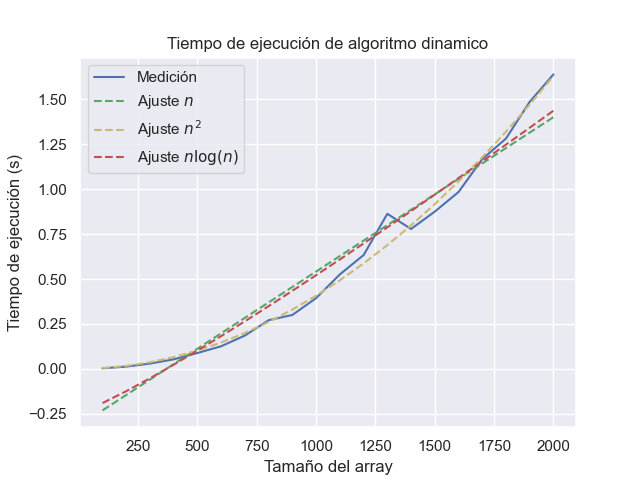
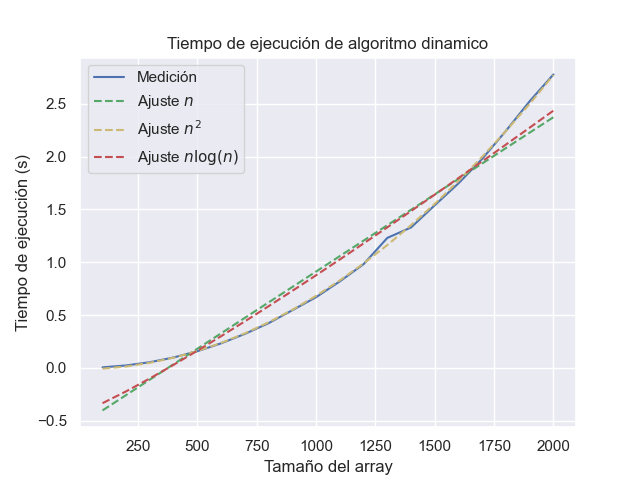
codigo segunda parte

diff --git a/src/main/juego_monedas_dinamico.py b/src/main/juego_monedas_dinamico.py
@@ -1,81 +1,95 @@
 from collections import deque
+import time
 from data_loader import cargar_set_datos
 import os
 
 
-def precompute_dp(arr):
-    n = len(arr)
-    dp = [[0] * n for _ in range(n)]
-    
-    # Base case: when there's only one element, the player will take it
-    for i in range(n):
-        dp[i][i] = arr[i]
-    
-    # Fill the dp table for all subarrays of size 2 or more
-    for length in range(2, n + 1):  # length of the subarray
-        for i in range(n - length + 1):
-            j = i + length - 1  # j is the end of the subarray
-            # The player can choose the first or the last coin
-            pick_first = arr[i] + (dp[i + 1][j] if i + 1 <= j else 0)
-            pick_last = arr[j] + (dp[i][j - 1] if i <= j - 1 else 0)
-            dp[i][j] = max(pick_first, pick_last)
-    
-    return dp
+def juego_monedas_dinamico(coins):
+    n = len(coins)
 
-def juego_monedas_dinamico(arr):
-    blue_score = 0  # Sophia's score
-    red_score = 0   # Mateo's score
-    choices = []
+    opt = [[-1] * n for _ in range(n)]
 
-    dp = precompute_dp(arr)
 
-    dq = deque(arr)
-    i, j = 0, len(arr) - 1
-    turn = 'Sophia'
+    for largo_subarreglo in range(1, n + 1):
+        for i in range(n - largo_subarreglo + 1):
+            j = i + largo_subarreglo - 1  
 
-    while dq:
-        if turn == 'Sophia':
-            # Sophia's turn, she chooses optimally based on DP
-            if dp[i + 1][j] > dp[i][j - 1]:
-                choices.append(f"Sophia debe agarrar la primera ({dq[0]})")
-                blue_score += dq.popleft()
-                i += 1
+            # Caso base: una sola moneda.
+            if i == j:
+                opt[i][j] = coins[i]
+            # Caso base: dos monedas
+            elif i + 1 == j:
+                opt[i][j] = max(coins[i], coins[j])
             else:
-                choices.append(f"Sophia debe agarrar la ultima ({dq[-1]})")
-                blue_score += dq.pop()
-                j -= 1
-            turn = 'Mateo'  # Switch turn to Mateo
+                # Sophia elige la moneda de la izquierda. Sophia tiene dos opciones luego entre i+1;j y 
+                # i;j-1. Mateo elige la moneda de mayor valor entre i+1 y j o i y j-1.
+                sophia_izq_mateo_izq = coins[i] + opt[i+2][j] if coins[i+1] >= coins[j] and i+2 <= j else 0
+                sophia_izq_mateo_der = coins[i] + opt[i+1][j-1] if coins[i+1] < coins[j] and i+1 <= j-1 else 0
+                opcion_izq = max(sophia_izq_mateo_izq, sophia_izq_mateo_der)
+                
+                # Sophia elige la moneda de la derecha. Sophia tiene dos opciones luego entre i;j-2 y
+                # i+1;j-1. Mateo elige la moneda de mayor valor entre i+1 y j o i y j-1.
+                sophia_der_mateo_izq = coins[j] + opt[i][j-2] if coins[i] < coins[j-1] and i <= j-2 else 0
+                sophia_der_mateo_der = coins[j] + opt[i+1][j-1] if coins[i] >= coins[j-1] and i+1 <= j-1 else 0
+                opcion_der = max(sophia_der_mateo_izq, sophia_der_mateo_der)
+                
+                opt[i][j] = max(opcion_izq, opcion_der)
+
+    puntaje_sophia = opt[0][n-1]
+    puntaje_mateo = sum(coins) - puntaje_sophia
+
+    return puntaje_sophia, puntaje_mateo, reconstruccion(coins, opt)
+
+
+def reconstruccion(coins, opt):
+    elecciones = []
+    j = len(coins) - 1
+    i = 0
+
+    while i <= j:
+        # Obtengo la mejor opcion del lado derecho, la comparo con la mejor opcion. Si no es la misma, avanzo por la otra opcion.
+        sophia_der_mateo_izq = coins[j] + opt[i][j-2] if coins[i] < coins[j-1] and i <= j-2 else 0
+        sophia_der_mateo_der = coins[j] + opt[i+1][j-1] if coins[i] >= coins[j-1] and i+1 <= j-1 else 0
+        opcion_der = max(sophia_der_mateo_izq, sophia_der_mateo_der)
+        
+        if opt[i][j] == opcion_der:
+            # Se eligió la moneda del lado derecho
+            elecciones.append(f"Sophia debe agarrar la ultima ({coins[j]})")
+            j -= 1
         else:
-            # Mateo's greedy turn: he takes the larger of the two available options
-            if dq[0] > dq[-1]:
-                choices.append(f"Mateo agarra la primera ({dq[0]})")
-                red_score += dq.popleft()
+            # Se eligió la moneda del lado izquierdo
+            elecciones.append(f"Sophia debe agarrar la primera ({coins[i]})")
+            i += 1
+        
+        if i <= j: 
+            if coins[i] >= coins[j]:
+                elecciones.append(f"Mateo agarra la primera ({coins[i]})")
                 i += 1
             else:
-                choices.append(f"Mateo agarra la ultima ({dq[-1]})")
-                red_score += dq.pop()
+                elecciones.append(f"Mateo agarra la ultima ({coins[j]})")
                 j -= 1
-            turn = 'Sophia'  # Switch turn to Sophia
 
-    return blue_score, red_score, choices
+    return "; ".join(elecciones)
 
 
-# Main function
-def main():
-    dir = os.path.abspath(os.path.join(os.path.dirname(__file__), '../../segunda-parte-set-datos/25.txt'))
+
+
+if __name__ == "__main__":
+
+    start_time = time.time()
+
+    dir = os.path.abspath(os.path.join(os.path.dirname(__file__), '../../segunda-parte-set-datos/20.txt'))
     monedas = cargar_set_datos(dir)
 
-    # Simulate the game
     ganancia_sophia, ganancia_mateo, choices = juego_monedas_dinamico(monedas)
 
     print("Recuento:")
     print(f"Ganancia Sophia: {ganancia_sophia}")
     print(f"Ganancia Mateo: {ganancia_mateo}")
 
-    # Print the choices made during the game
-    print("\nChoices made during the game:")
-    print("; ".join(choices))
 
-# Entry point for the program
-if __name__ == "__main__":
-    main()
+    print(choices)
+
+    end_time = time.time()
+    execution_time = end_time - start_time
+    # print(f"Tiempo de ejecución: {execution_time:.6f} segundos")
